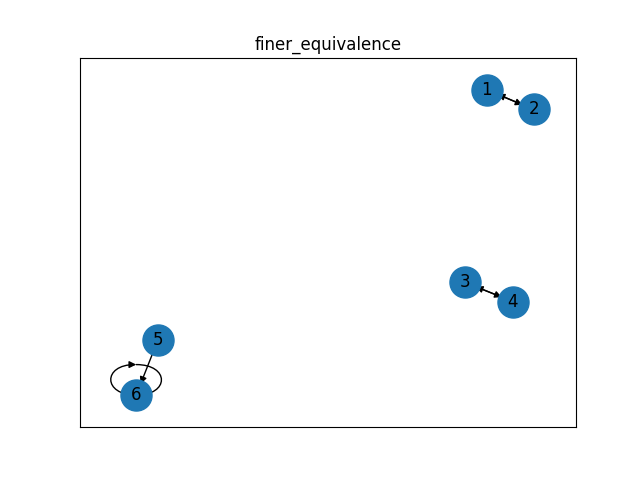
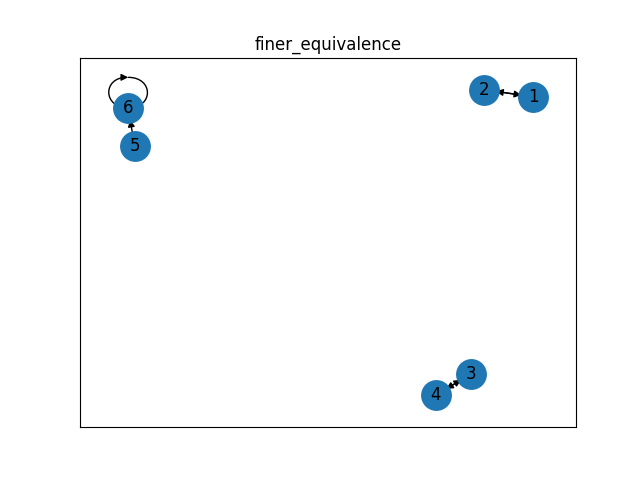
Uploading the images generated

diff --git a/Transitive-closure.py b/Transitive-closure.py
@@ -111,5 +111,5 @@ if __name__ == "__main__":
               total_ordering, partial_ordering, universal_relation]
 
     G = Graphs(graphs=graphs)
-    G.draw_initial_graphs()
+    # G.draw_initial_graphs()
     G.draw_transitive_closure_graphs()
